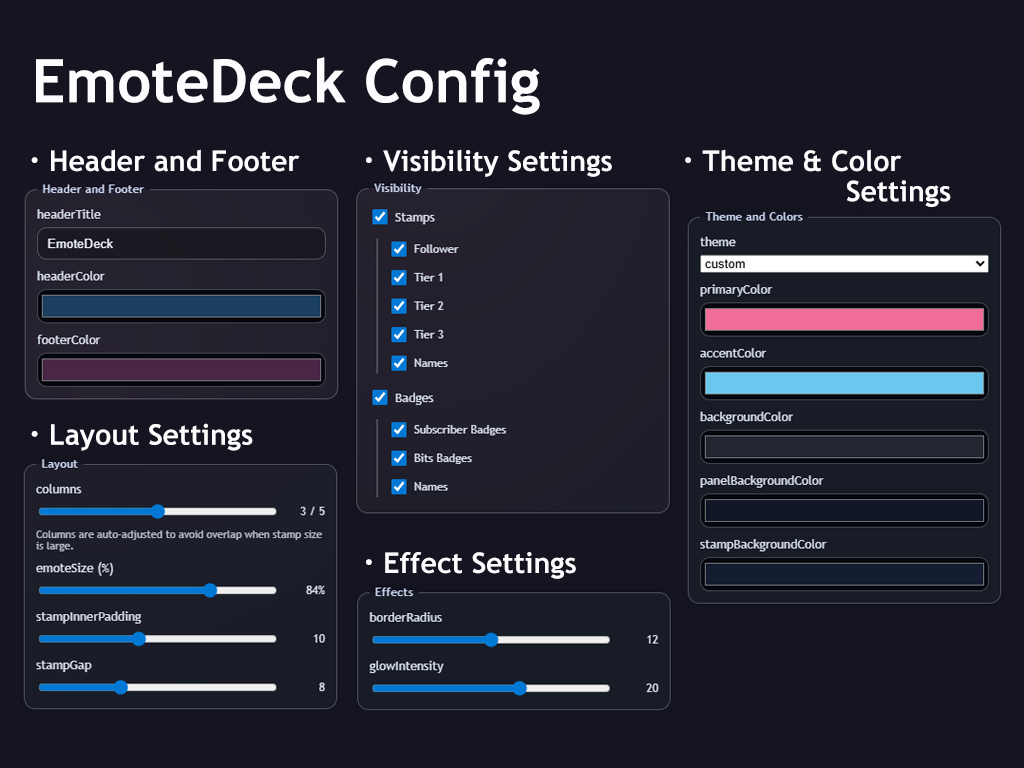
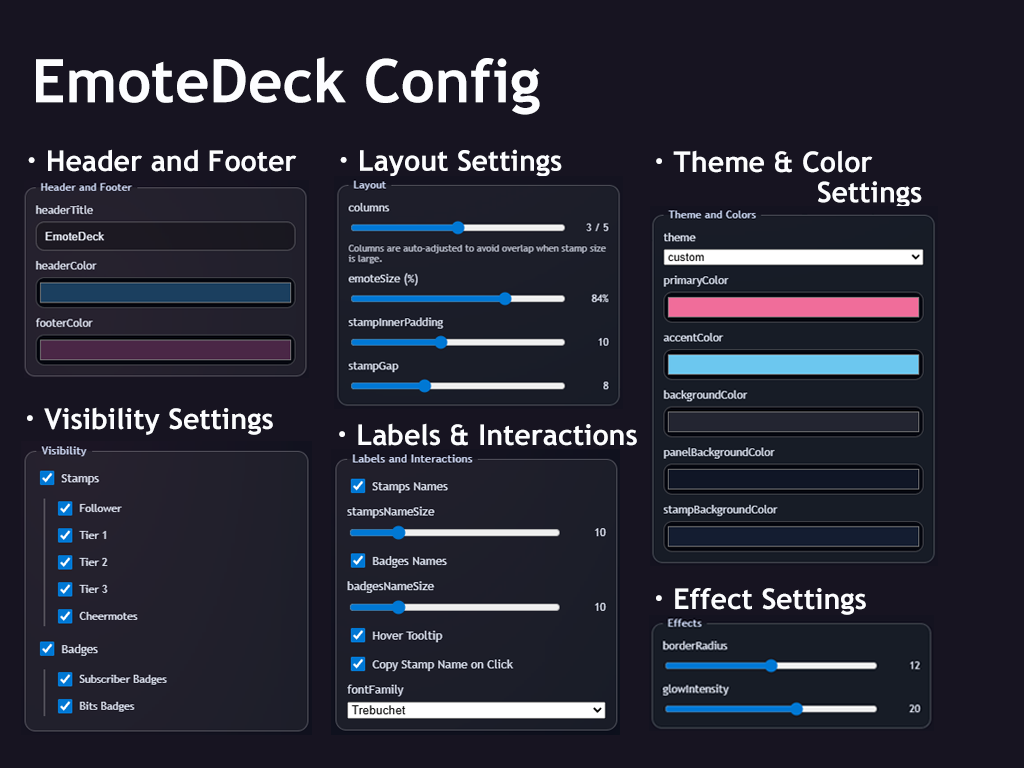
chore: finalize v1.1.0 release adjustments

Changed region(s): [[0.0312, 0.1875, 0.9688, 0.9375], [0.0312, 0.1875, 0.3125, 0.5], [0.2812, 0.2812, 0.3125, 0.3438]]

diff --git a/src/extension/panel.js b/src/extension/panel.js
@@ -132,6 +132,14 @@
     }
   }
 
+  function hasUsableTwitchContext() {
+    return !!(
+      window.Twitch &&
+      window.Twitch.ext &&
+      typeof window.Twitch.ext.onAuthorized === "function"
+    );
+  }
+
   function readConfigFromTwitch() {
     if (!window.Twitch || !window.Twitch.ext || !window.Twitch.ext.configuration) {
       return Object.assign({}, RENDER.defaults);
@@ -324,7 +332,7 @@
     applyPlatformToDom(state.platform);
     applyHostToDom(state.host);
 
-    if (!window.Twitch || !window.Twitch.ext) {
+    if (!hasUsableTwitchContext()) {
       state.data = createDemoData();
       state.showInfoStatus = true;
       if (state.platform === "mobile") {
@@ -347,7 +355,25 @@
       });
     }
 
+    var authResolved = false;
+    var authFallbackTimer = setTimeout(function () {
+      if (authResolved) {
+        return;
+      }
+      authResolved = true;
+      state.data = createDemoData();
+      state.showInfoStatus = true;
+      if (state.platform === "mobile") {
+        setStatus("Demo mode (mobile layout). Helix data requires Twitch extension context.", false, true);
+      } else {
+        setStatus("Running in demo mode outside Twitch.", false, true);
+      }
+      renderPanel();
+    }, 1800);
+
     window.Twitch.ext.onAuthorized(async function (auth) {
+      clearTimeout(authFallbackTimer);
+      authResolved = true;
       state.auth = auth;
       setStatus("Loading from Helix API...", false, state.showInfoStatus);
 

diff --git a/src/extension/config.js b/src/extension/config.js
@@ -143,6 +143,21 @@
     }
   }
 
+  function hasUsableTwitchContext() {
+    return !!(
+      window.Twitch &&
+      window.Twitch.ext &&
+      typeof window.Twitch.ext.onAuthorized === "function"
+    );
+  }
+
+  function isDebugMode() {
+    var meta = document.querySelector('meta[name="emotedeck-debug"]');
+    var raw = meta ? String(meta.getAttribute("content") || "") : "";
+    var value = raw.trim().toLowerCase();
+    return value === "on" || value === "true" || value === "1" || value === "debug";
+  }
+
   function syncRangeLabels() {
     var currentColumns = parseInt(controls.columns.value, 10) || 1;
     var maxColumns = parseInt(controls.columns.max, 10) || 8;
@@ -784,7 +799,14 @@
   }
 
   async function initTwitchFlow() {
-    if (!window.Twitch || !window.Twitch.ext) {
+    if (isDebugMode()) {
+      state.data = createDemoData();
+      renderPreview();
+      setStatus("DEBUG mode: local demo data is enabled.", false);
+      return;
+    }
+
+    if (!hasUsableTwitchContext()) {
       state.data = createDemoData();
       renderPreview();
       setStatus("Running in local preview mode. Configuration is not persisted.", false);

diff --git a/src/extension/config.html b/src/extension/config.html
@@ -3,6 +3,7 @@
   <head>
     <meta charset="utf-8">
     <meta name="viewport" content="width=device-width, initial-scale=1, viewport-fit=cover">
+    <meta name="emotedeck-debug" content="off">
     <title>EmoteDeck Config</title>
     <link rel="stylesheet" href="./config.css">
     <script src="https://extension-files.twitch.tv/helper/v1/twitch-ext.min.js"></script>

diff --git a/CHANGELOG.md b/CHANGELOG.md
@@ -2,6 +2,15 @@
 
 This project follows [Semantic Versioning](https://semver.org/).
 
+## [1.1.0] - 2026-02-24
+- Added full `Stamps` support set in one tab: `Follower`, `Tier 1`, `Tier 2`, `Tier 3`, and `Cheermotes`.
+- Switched cheermote data sourcing to Helix `GET /chat/emotes` (`emote_type=bitstier`) for extension-friendly retrieval.
+- Added drag-and-drop ordering and individual visibility toggles for stamps and badges.
+- Improved label UX: separate `Stamps Names` / `Badges Names`, configurable font and label sizes, and multiline clipping-safe rendering.
+- Added hover tooltip and click-to-copy interactions with robust clipboard fallback behavior.
+- Improved mobile rendering behavior: platform-aware layout tuning and content-driven panel flow for Twitch app screens.
+- Improved panel/config visual consistency: theme-aware empty states, clearer copy toast styling, and safer default data loading flow.
+
 ## [1.1.0-rc.4] - 2026-02-24
 - Switched mobile panel rendering to a content-driven (natural height) layout to better match Twitch app panel behavior.
 - Removed mobile fixed-height forcing that could cause content clipping/cut-off on some app screens.
@@ -39,9 +48,8 @@ This project follows [Semantic Versioning](https://semver.org/).
 - Added a release roadmap to separate patch stabilization (`1.0.1`) from the upcoming feature release line (`1.1.0-rc.1` -> `1.1.0`).
 
 ## Roadmap
-### [1.1.0] - planned
-- Run final regression checks for panel/config rendering and Helix data fetch flows.
-- Finalize release notes and publish as stable 1.1.0.
+### [1.1.1] - planned
+- Stabilization and bugfix patch after production feedback (mobile in-app panel edge cases, rendering consistency).
 
 ## [1.0.0] - 2026-02-16
 - Reworked Visibility settings into parent/child groups for `Stamps` and `Badges`, with separate `Names` toggles for each.
